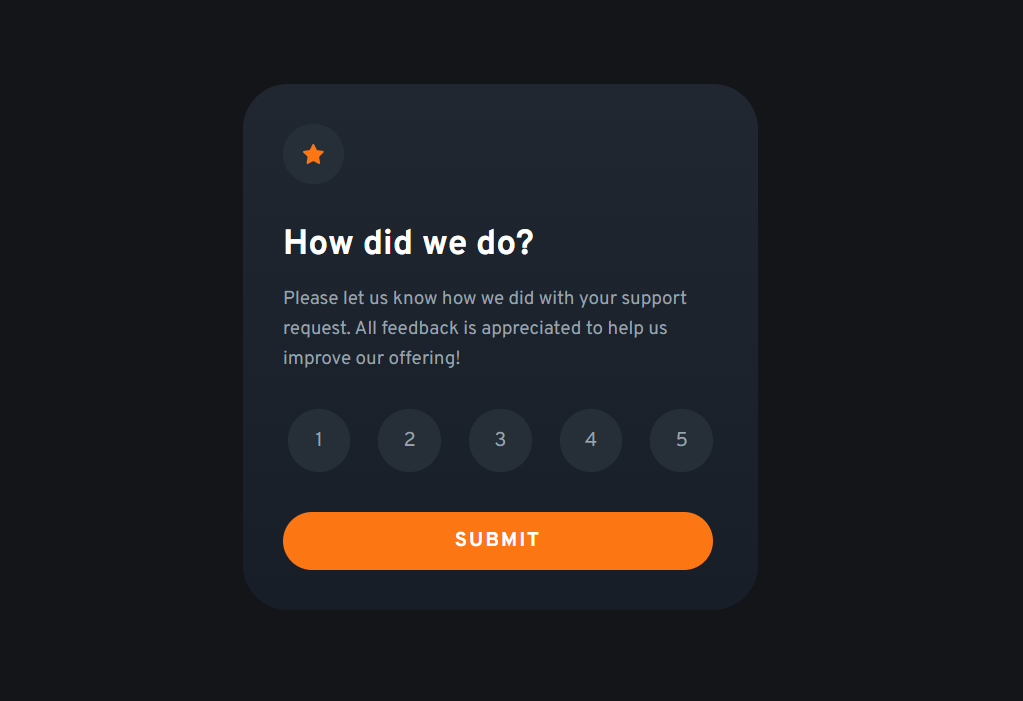
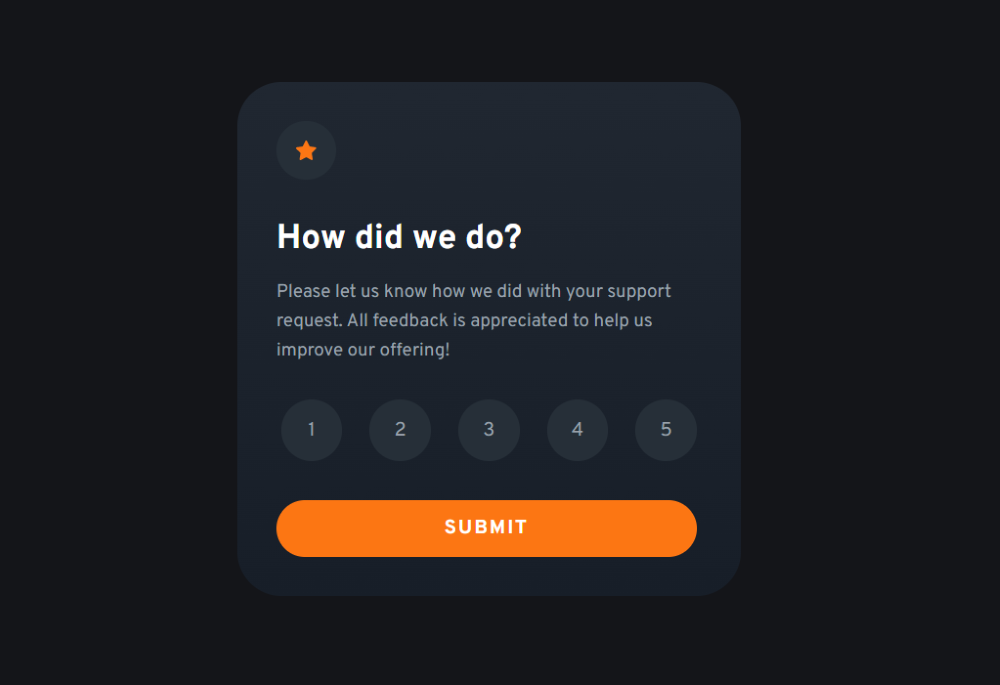
docs: update readme

diff --git a/README.md b/README.md
@@ -1,7 +1,7 @@
 <h1 align="center">Interactive Rating Component</h1>
 
-<div style="max-width:500px; margin-inline: auto;">
-  <img src="./src/images/preview-component.png" alt="Preview Component">
+<div style="max-width:60%; margin-inline: auto;">
+  <img src="./src/images/preview-rating-submission.gif" alt="Rating Submission preview">
 </div>
 
 <div align="center">
@@ -34,9 +34,9 @@ Users should be able to:
 Users can select select and submit a number rating. 
 After submitting a rating, the component dynamically updates the display to show a "Thank you" card state. It replaces the existing content with a new element created from the provided template. 
 
-<div align="center">
-  <img src="./src/images/preview-rating-submission.gif" alt="Rating Submission preview" style="max-width:60%;">
-</div>
+| Rating State | Thank you State |
+| --- | --- |
+| ![Rating state](./src/images/preview-component.png)  | ![Mobile](./src/images/preview-thank-you-state.png) |
 
 ### Responsive Design
 
